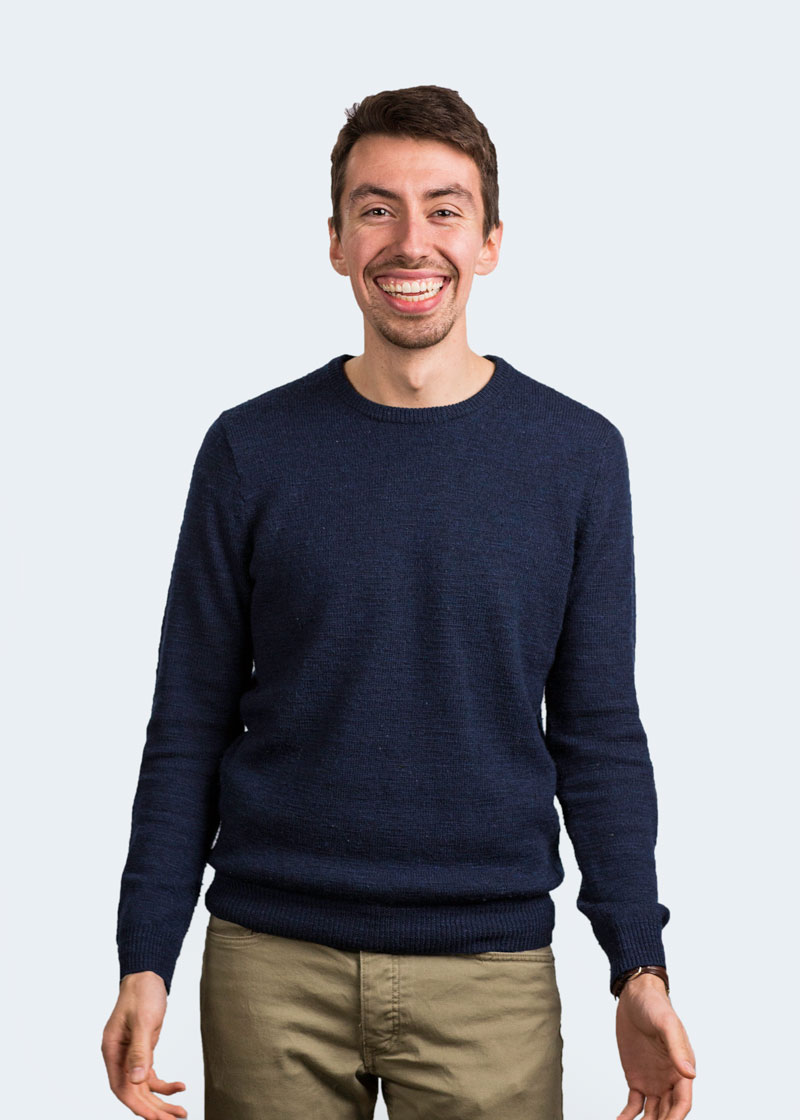
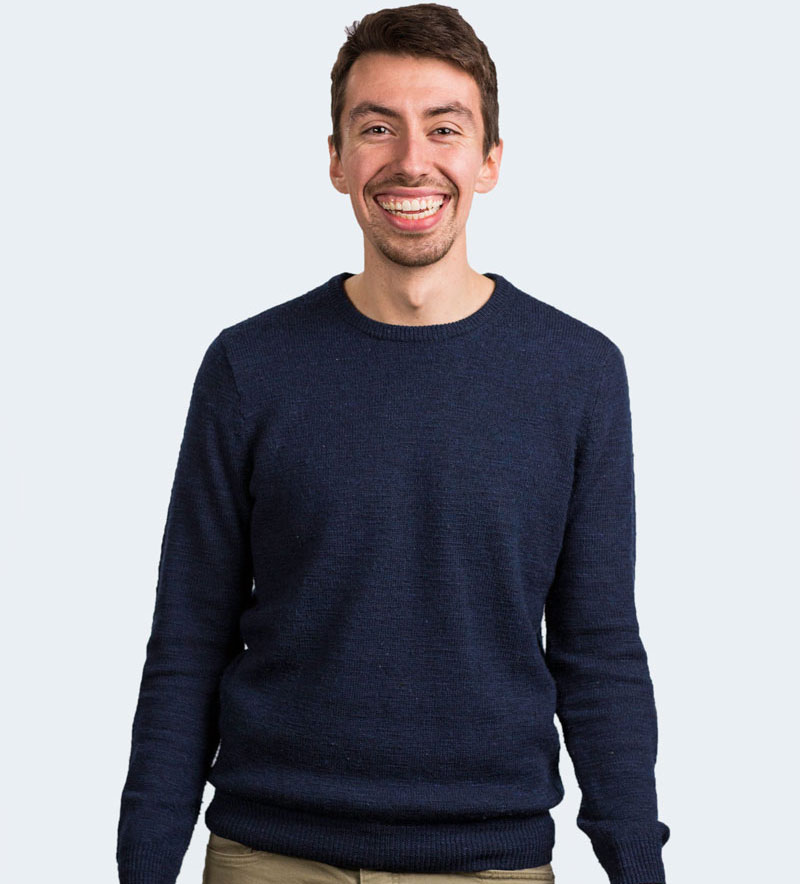
about page styling

diff --git a/_site/about/index.html b/_site/about/index.html
@@ -120,24 +120,17 @@
       <div class="wrapper">
         <div class="content-wrapper">
   <div class="about-wrapper">
-      <div class="about__image">
-        <img class="" src="/assets/images/alex-red.jpg" alt="Portrait of Alex Martinez">
-      </div>
       <div class="about__copy">
         <h1 class="heading--large heading--about">
           Hi, my name is Alex.
         </h1>
         <p>
-          I'm a UX/UI designer and front-end developer based in a Washington, D.C. I am part of the design team at <a href="https://www.isl.co" target="_blank" class="link--text-in-p">ISL</a> where I work on web and mobile applications.
-        </p>
+          I am a front-end designer with a passion for creating beautiful interfaces and delightful experiences located in beautiful Toledo, OH.
         <p>
-          Originally born and bred in the heart of it all (Ohio), I moved to D.C. after attending Ohio University in May of 2014. I'm driven by the goal of crafting the best digital products possible.
-        </p>
-        <p>
-          When I'm not at a computer, I spend my time running, cooking, and traveling. I also love a good burrito, French Bulldogs, and baby pandas.
-        </p>
-        <p>
-          This site is an ongoing work in project, built in
+          I am currently a remote designer for <a href="https://www.isl.co" target="_blank" class="link--text-in-p">ISL</a>, a DC–based digital agency,  where I work on web and mobile applications. In the past, I've interned at awesome agencies and startups like <a href="https://www.viget.com" target="_blank" class="link--text-in-p">Viget</a> and <a href="https://www.jerseywatch.com" target="_blank" class="link--text-in-p">Jersey Watch</a>.
+        <hr class="about__rule" />
+        <p class="about__copy--small">
+          This site is built in
           <a href="https://jekyllrb.com/" class="link--text-in-p" target="_blank">
             Jekyll
           </a> 
@@ -147,6 +140,9 @@
           </a>. 
           Type is set in Inconsolata, Aktiv Grotesk, and Athelas.
         </p> 
+      </div>
+      <div class="about__image">
+        <img class="" src="/assets/images/alex-red.jpg" alt="Portrait of Alex Martinez">
       </div>
   </div>
 </div> 
@@ -173,7 +169,7 @@
 		    </ul>
 		    <div class="footer__about">
 		    	<p class="footer__credits">
-		    		© Alex Martinez 2015. Made with ♥ in and around DC, OH
+		    		© Alex Martinez 2016. Made with ♥ in and around DC, OH
 		    	</p>
 		    </div>
 	</div>
@@ -189,24 +185,17 @@
   <article class="post-content">
     <div class="content-wrapper">
   <div class="about-wrapper">
-      <div class="about__image">
-        <img class="" src="/assets/images/alex-red.jpg" alt="Portrait of Alex Martinez">
-      </div>
       <div class="about__copy">
         <h1 class="heading--large heading--about">
           Hi, my name is Alex.
         </h1>
         <p>
-          I'm a UX/UI designer and front-end developer based in a Washington, D.C. I am part of the design team at <a href="https://www.isl.co" target="_blank" class="link--text-in-p">ISL</a> where I work on web and mobile applications.
-        </p>
+          I am a front-end designer with a passion for creating beautiful interfaces and delightful experiences located in beautiful Toledo, OH.
         <p>
-          Originally born and bred in the heart of it all (Ohio), I moved to D.C. after attending Ohio University in May of 2014. I'm driven by the goal of crafting the best digital products possible.
-        </p>
-        <p>
-          When I'm not at a computer, I spend my time running, cooking, and traveling. I also love a good burrito, French Bulldogs, and baby pandas.
-        </p>
-        <p>
-          This site is an ongoing work in project, built in
+          I am currently a remote designer for <a href="https://www.isl.co" target="_blank" class="link--text-in-p">ISL</a>, a DC–based digital agency,  where I work on web and mobile applications. In the past, I've interned at awesome agencies and startups like <a href="https://www.viget.com" target="_blank" class="link--text-in-p">Viget</a> and <a href="https://www.jerseywatch.com" target="_blank" class="link--text-in-p">Jersey Watch</a>.
+        <hr class="about__rule" />
+        <p class="about__copy--small">
+          This site is built in
           <a href="https://jekyllrb.com/" class="link--text-in-p" target="_blank">
             Jekyll
           </a> 
@@ -216,6 +205,9 @@
           </a>. 
           Type is set in Inconsolata, Aktiv Grotesk, and Athelas.
         </p> 
+      </div>
+      <div class="about__image">
+        <img class="" src="/assets/images/alex-red.jpg" alt="Portrait of Alex Martinez">
       </div>
   </div>
 </div> 

diff --git a/about/index.html b/about/index.html
@@ -6,24 +6,17 @@ group: 'navigation'
 
 <div class="content-wrapper">
   <div class="about-wrapper">
-      <div class="about__image">
-        <img class="" src="{{ site.url }}/assets/images/alex-red.jpg" alt="Portrait of Alex Martinez">
-      </div>
       <div class="about__copy">
         <h1 class="heading--large heading--about">
           Hi, my name is Alex.
         </h1>
         <p>
-          I'm a UX/UI designer and front-end developer based in a Washington, D.C. I am part of the design team at <a href="https://www.isl.co" target="_blank" class="link--text-in-p">ISL</a> where I work on web and mobile applications.
-        </p>
+          I am a front-end designer with a passion for creating beautiful interfaces and delightful experiences located in beautiful Toledo, OH.
         <p>
-          Originally born and bred in the heart of it all (Ohio), I moved to D.C. after attending Ohio University in May of 2014. I'm driven by the goal of crafting the best digital products possible.
-        </p>
-        <p>
-          When I'm not at a computer, I spend my time running, cooking, and traveling. I also love a good burrito, French Bulldogs, and baby pandas.
-        </p>
-        <p>
-          This site is an ongoing work in project, built in
+          I am currently a remote designer for <a href="https://www.isl.co" target="_blank" class="link--text-in-p">ISL</a>, a DC–based digital agency,  where I work on web and mobile applications. In the past, I've interned at awesome agencies and startups like <a href="https://www.viget.com" target="_blank" class="link--text-in-p">Viget</a> and <a href="https://www.jerseywatch.com" target="_blank" class="link--text-in-p">Jersey Watch</a>.
+        <hr class="about__rule" />
+        <p class="about__copy--small">
+          This site is built in
           <a href="https://jekyllrb.com/" class="link--text-in-p" target="_blank">
             Jekyll
           </a> 
@@ -33,6 +26,9 @@ group: 'navigation'
           </a>. 
           Type is set in Inconsolata, Aktiv Grotesk, and Athelas.
         </p> 
+      </div>
+      <div class="about__image">
+        <img class="" src="{{ site.url }}/assets/images/alex-red.jpg" alt="Portrait of Alex Martinez">
       </div>
   </div>
 </div> 

diff --git a/_site/css/main.css b/_site/css/main.css
@@ -983,19 +983,61 @@ ul.ul--post-archive {
 .about-wrapper {
   background: #EAEFF2;
   display: flex;
-  padding: 80px 0px 0px 0px; }
+  padding: 40px 0px 0px 0px;
+  flex-direction: column; }
+  @media screen and (min-width: 600px) {
+    .about-wrapper {
+      padding: 70px 0px 0px 0px; } }
+  @media screen and (min-width: 1050px) {
+    .about-wrapper {
+      flex-direction: row-reverse;
+      padding: 40px 0px 0px 0px; } }
+  @media screen and (min-width: 1330px) {
+    .about-wrapper {
+      padding-top: 80px; } }
 
 .about__copy {
-  width: 60%;
-  max-width: 650px;
-  padding: 50px 30px 0px 0px;
-  top: 70px;
-  right: 30px; }
+  margin: 0 auto;
+  max-width: 600px;
+  padding: 0px 30px; }
+  @media screen and (min-width: 1050px) {
+    .about__copy {
+      width: 60%;
+      max-width: 650px;
+      padding: 30px 50px 0px 0px;
+      margin: 0; } }
+  @media screen and (min-width: 1290px) {
+    .about__copy {
+      padding: 50px 50px 0px 0px; } }
+  @media screen and (min-width: 1700px) {
+    .about__copy {
+      padding: 50px 150px 0px 0px; } }
+
+.about__rule {
+  height: 1px;
+  color: #E0DDF0;
+  background: #E0DDF0;
+  font-size: 0;
+  border: 0;
+  margin-top: 50px; }
+  @media screen and (min-width: 1330px) {
+    .about__rule {
+      margin-top: 100px; } }
+
+.about__copy--small {
+  font-size: 15px;
+  line-height: 20px;
+  color: #a9a6b5; }
 
 .about__image {
-  height: 100%;
-  width: 50%;
-  min-width: 600px; }
+  max-width: 490px;
+  margin: 0 auto; }
+  @media screen and (min-width: 1050px) {
+    .about__image {
+      width: 50%;
+      max-width: 50%;
+      min-width: 530px;
+      margin: 0; } }
 
 .heading--about {
   margin-bottom: 20px; }

diff --git a/_sass/_about.scss b/_sass/_about.scss
@@ -1,21 +1,76 @@
+$about-column-break: 1050px;
+
 .about-wrapper {
 	background: $gray-color;
 	display: flex;
-	padding: 80px 0px 0px 0px;
+	padding: 40px 0px 0px 0px;
+	flex-direction: column;
+
+	@media screen and (min-width: $on-palm) {
+		padding: 70px 0px 0px 0px;
+	}
+
+	@media screen and (min-width: $about-column-break) {
+	    flex-direction: row-reverse;
+	    padding: 40px 0px 0px 0px;
+	}
+	
+	@media screen and (min-width: 1330px) {
+	    padding-top: 80px;
+	}
 }
 
 .about__copy {
-	width: 60%;
-	max-width: 650px;
-	padding: 50px 30px 0px 0px;
-	top: 70px;
-	right: 30px;
+	margin: 0 auto;
+	max-width: 600px;
+	padding: 0px 30px;
+
+	@media screen and (min-width: $about-column-break) {
+		width: 60%;
+		max-width: 650px;
+		padding: 30px 50px 0px 0px;
+		margin: 0;
+	}
+
+	@media screen and (min-width: 1290px) {
+	   	padding: 50px 50px 0px 0px;
+	}
+
+	@media screen and (min-width: 1700px) {
+	    padding: 50px 150px 0px 0px;
+	}
+}
+
+.about__rule {
+	height: 1px;
+	color: $hover-color;
+	background: $hover-color;
+	font-size: 0;
+	border: 0;
+	margin-top: 50px;
+
+	@media screen and (min-width: 1330px) {
+	    margin-top: 100px;
+	}
+
+}
+
+.about__copy--small {
+	font-size: 15px; 
+	line-height: 20px;
+	color: #a9a6b5;
 }
 
 .about__image {
-	height: 100%;
-	width: 50%;
-	min-width: 600px;
+	max-width: 490px;
+	margin: 0 auto;
+
+	@media screen and (min-width: $about-column-break) {
+	    width: 50%;
+	    max-width: 50%;
+	    min-width: 530px;
+	    margin: 0;
+	}
 }
 
 .heading--about {

diff --git a/_site/blah/battle-of-the-hands.html b/_site/blah/battle-of-the-hands.html
@@ -248,7 +248,7 @@ Before we dive into my favorite plugins, if you use Sketch and you haven’t ins
 		    </ul>
 		    <div class="footer__about">
 		    	<p class="footer__credits">
-		    		© Alex Martinez 2015. Made with ♥ in and around DC, OH
+		    		© Alex Martinez 2016. Made with ♥ in and around DC, OH
 		    	</p>
 		    </div>
 	</div>

diff --git a/_site/thoughts/five-of-my-favorite-sketch-plugins.html b/_site/thoughts/five-of-my-favorite-sketch-plugins.html
@@ -248,7 +248,7 @@ Before we dive into my favorite plugins, if you use Sketch and you haven’t ins
 		    </ul>
 		    <div class="footer__about">
 		    	<p class="footer__credits">
-		    		© Alex Martinez 2015. Made with ♥ in and around DC, OH
+		    		© Alex Martinez 2016. Made with ♥ in and around DC, OH
 		    	</p>
 		    </div>
 	</div>

diff --git a/_site/thoughts/hello-there.html b/_site/thoughts/hello-there.html
@@ -202,7 +202,7 @@ I’ve got all these thoughts just floating through my brain…” - <a href="ht
 		    </ul>
 		    <div class="footer__about">
 		    	<p class="footer__credits">
-		    		© Alex Martinez 2015. Made with ♥ in and around DC, OH
+		    		© Alex Martinez 2016. Made with ♥ in and around DC, OH
 		    	</p>
 		    </div>
 	</div>

diff --git a/_site/work/service-year.html b/_site/work/service-year.html
@@ -266,7 +266,7 @@ SY is an ongoing and ever evolving project that aims to become the nation’s le
 		    </ul>
 		    <div class="footer__about">
 		    	<p class="footer__credits">
-		    		© Alex Martinez 2015. Made with ♥ in and around DC, OH
+		    		© Alex Martinez 2016. Made with ♥ in and around DC, OH
 		    	</p>
 		    </div>
 	</div>

diff --git a/_site/2016/05/23/design-process.html b/_site/2016/05/23/design-process.html
@@ -266,7 +266,7 @@ http://continuousdelivery.com/</p>
 		    </ul>
 		    <div class="footer__about">
 		    	<p class="footer__credits">
-		    		© Alex Martinez 2015. Made with ♥ in and around DC, OH
+		    		© Alex Martinez 2016. Made with ♥ in and around DC, OH
 		    	</p>
 		    </div>
 	</div>

diff --git a/_site/2015/11/11/contrary-con-identity.html b/_site/2015/11/11/contrary-con-identity.html
@@ -224,7 +224,7 @@
 		    </ul>
 		    <div class="footer__about">
 		    	<p class="footer__credits">
-		    		© Alex Martinez 2015. Made with ♥ in and around DC, OH
+		    		© Alex Martinez 2016. Made with ♥ in and around DC, OH
 		    	</p>
 		    </div>
 	</div>

diff --git a/_site/2015/11/15/finding-a-work-life-balance.html b/_site/2015/11/15/finding-a-work-life-balance.html
@@ -213,7 +213,7 @@
 		    </ul>
 		    <div class="footer__about">
 		    	<p class="footer__credits">
-		    		© Alex Martinez 2015. Made with ♥ in and around DC, OH
+		    		© Alex Martinez 2016. Made with ♥ in and around DC, OH
 		    	</p>
 		    </div>
 	</div>

diff --git a/_site/2015/11/15/open-sourcing-my-personal-goals.html b/_site/2015/11/15/open-sourcing-my-personal-goals.html
@@ -174,7 +174,7 @@
 		    </ul>
 		    <div class="footer__about">
 		    	<p class="footer__credits">
-		    		© Alex Martinez 2015. Made with ♥ in and around DC, OH
+		    		© Alex Martinez 2016. Made with ♥ in and around DC, OH
 		    	</p>
 		    </div>
 	</div>
